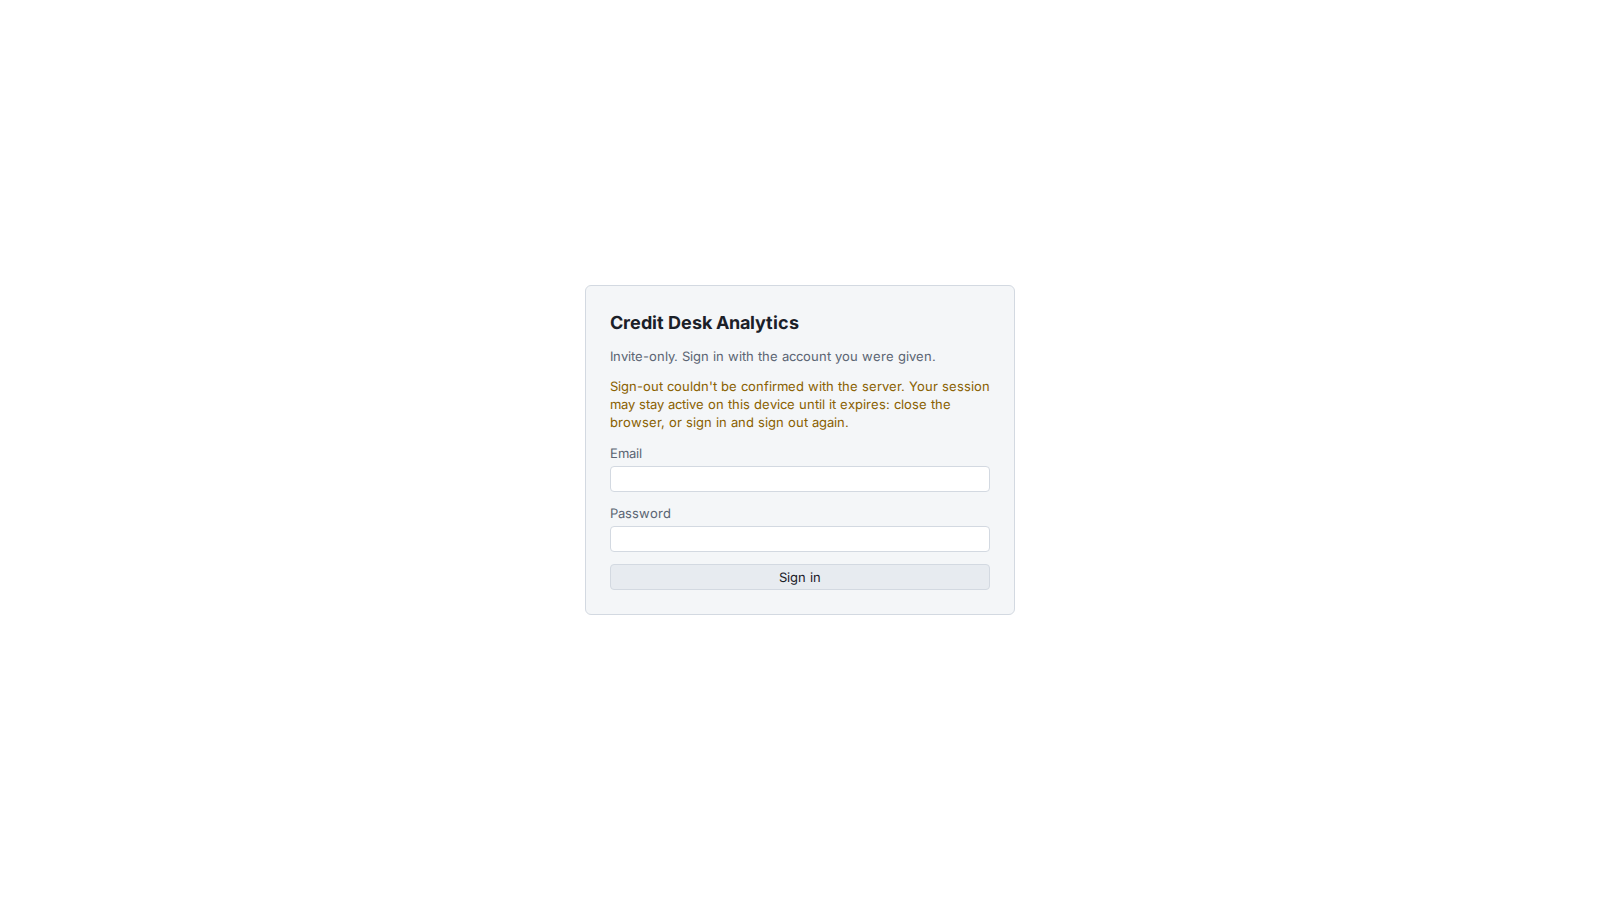
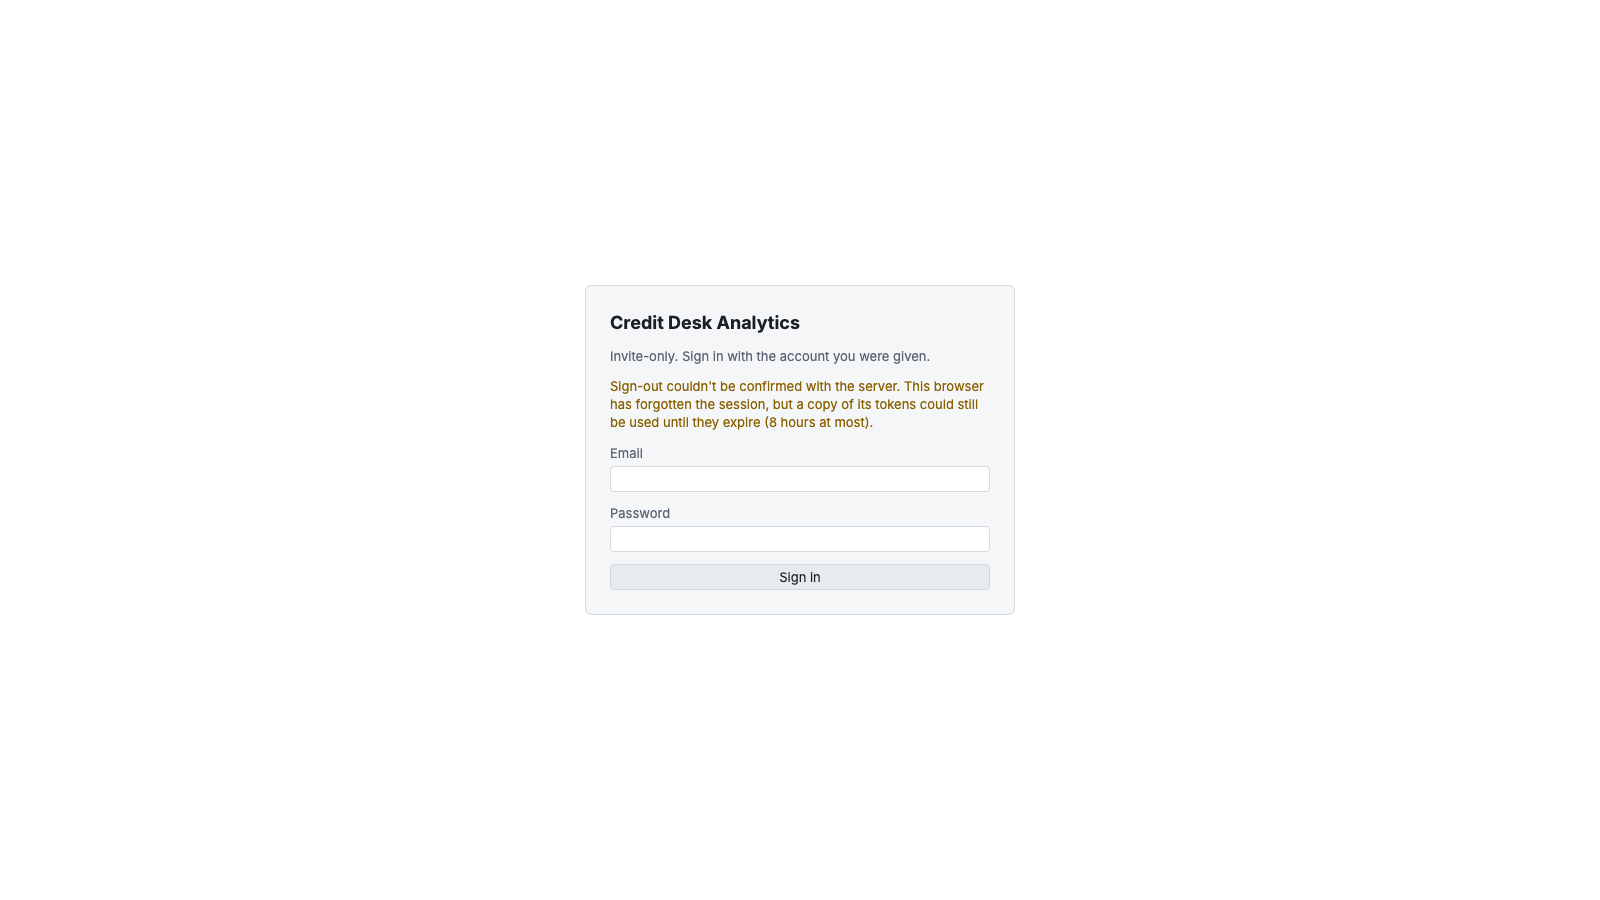
fix(web): say what an unconfirmed sign-out leaves behind with tokens
The browser has forgotten the session; a copy of its tokens could still be used until they
expire. Signing in and out again would not revoke the old session, so the banner no longer
suggests it. Screenshots regenerated (dark and light).

Changed region(s): [[0.375, 0.3422, 0.625, 0.5289], [0.4688, 0.6222, 0.5, 0.6533], [0.375, 0.56, 0.4062, 0.5911]]

diff --git a/web/src/app/login/login.html b/web/src/app/login/login.html
@@ -5,8 +5,8 @@
 
     @if (signoutUnconfirmed) {
       <div class="banner" role="alert" data-testid="signout-unconfirmed">
-        Sign-out couldn't be confirmed with the server. This browser has forgotten the session, but the server may
-        accept its tokens until they expire: sign in and sign out again to end it there too.
+        Sign-out couldn't be confirmed with the server. This browser has forgotten the session, but a copy of its
+        tokens could still be used until they expire (8 hours at most).
       </div>
     }
     @if (maintenance()) {

diff --git a/web/src/app/login/login.spec.ts b/web/src/app/login/login.spec.ts
@@ -56,7 +56,7 @@ describe('Login', () => {
     }
     expect(banner?.getAttribute('role')).toBe('alert');
     expect(banner?.textContent).toContain("Sign-out couldn't be confirmed with the server");
-    expect(banner?.textContent).toContain('sign in and sign out again to end it there too');
+    expect(banner?.textContent).toContain('This browser has forgotten the session');
   });
 
   it('shows the maintenance banner', async () => {
